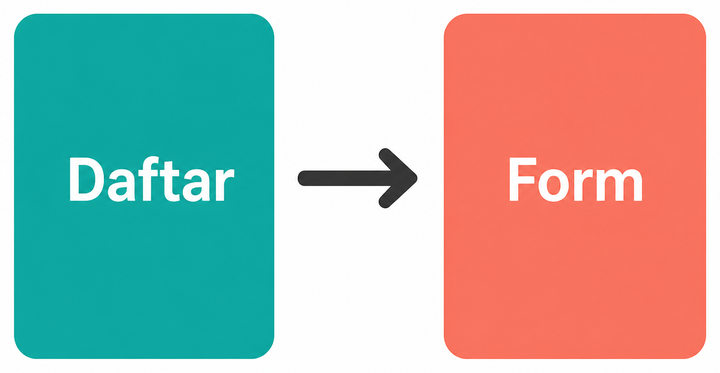
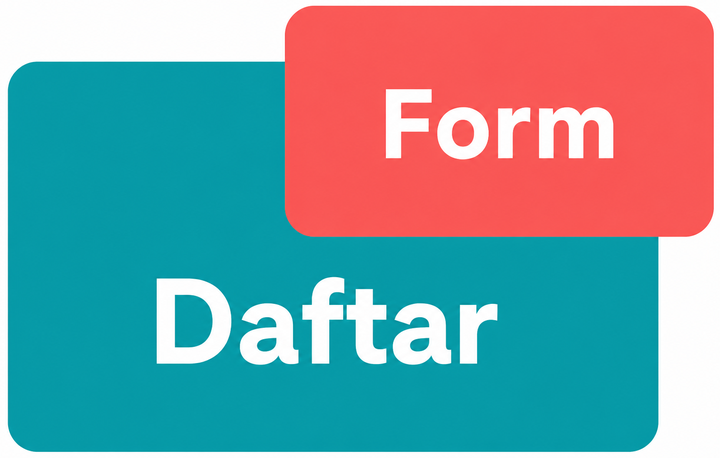
Fix the Modul 03 navigation analogy so GitHub no longer shows a tall broken-looking diagram.

diff --git a/modul-03-interaksi/README.md b/modul-03-interaksi/README.md
@@ -16,14 +16,15 @@ Ada **dua jalur uji**. Jangan sampai tertukar.
 | B | VS Code + Terminal (`Ctrl + J`) + emulator/HP | `go_router`, `PopScope` di rute paket, mini proyek |
 
 ```mermaid
-flowchart LR
-  A["Form / Navigator"] --> B["DartPad mode Flutter"]
-  C["go_router"] --> D["VS Code + flutter pub add"]
+flowchart TB
+  Pilih["Pilih jalur uji"]
+  Pilih --> A["Jalur A: DartPad mode Flutter"]
+  Pilih --> B["Jalur B: VS Code + go_router"]
 ```
 
 <img src="https://dart.dev/assets/img/dartpad-hello.png" alt="Tampilan DartPad: editor di kiri, keluaran di kanan" width="720">
 
-Sumber gambar: [dart.dev/tools/dartpad](https://dart.dev/tools/dartpad), Dart team / Google ([CC BY 4.0](https://creativecommons.org/licenses/by/4.0/)). Foto di atas **mode Dart**. Untuk modul ini pilih mode **Flutter**.
+Sumber gambar: [dart.dev/tools/dartpad](https://dart.dev/tools/dartpad), Dart team / Google ([CC BY 4.0](https://creativecommons.org/licenses/by/4.0/)). Foto resmi itu **tema gelap** dan **mode Dart**. Kalau kelihatan seperti kotak hitam, gulir sampai editor kiri dan tombol **Run** terlihat; itu bukan gambar rusak. Untuk modul ini pilih mode **Flutter** supaya panel kanan jadi **layar aplikasi**.
 
 Paket `go_router` **tidak** ada di daftar paket DartPad ([Package and plugin support](https://github.com/dart-lang/dart-pad/wiki/Package-and-plugin-support)). Jangan tempel `import 'package:go_router/go_router.dart'` di DartPad.
 
@@ -60,16 +61,13 @@ Paket `go_router` **tidak** ada di daftar paket DartPad ([Package and plugin sup
 
 Analogi: tumpukan kertas. Halaman baru diletakkan **di atas**. Tombol kembali mengangkat kertas paling atas.
 
-<img src="images/analogi-daftar-form.png" alt="Alur dari halaman Daftar ke halaman Form" width="720">
+<img src="images/analogi-daftar-form.png" alt="Form menumpuk di atas halaman Daftar" width="720">
 
-*Ilustrasi asli materi mobile2026. Alur mini proyek: daftar catatan → form tambah. Penjelasan ada di teks.*
-
-Ilustrasi di atas: **push** (Daftar ke Form). Tombol kembali = **pop** (Form diangkat, Daftar kelihatan lagi).
+*Ilustrasi asli materi mobile2026. Form menumpuk di atas Daftar (push). Tombol kembali mengangkat Form (pop). Penjelasan ada di teks.*
 
 ```mermaid
 flowchart TB
-  Form["Form — kertas atas"]
-  Daftar["Daftar — kertas bawah"]
+  Daftar["Daftar — kertas bawah"] --> Form["Form — kertas atas"]
 ```
 
 Di Flutter SDK, satu “kertas” disebut **route**. `Navigator` menjaga tumpukannya. `go_router` mengatur tumpukan itu lewat URL (`/`, `/tambah`).
@@ -86,6 +84,16 @@ Dokumentasi Flutter sendiri bilang: untuk app baru, jangan pakai `Navigator.push
 | --- | --- |
 | `InkWell` | ketuk dengan riak tinta; butuh widget `Material` di atasnya |
 | `GestureDetector` | ketuk, tahan lama, geser; tanpa riak |
+
+<img src="images/analogi-ketuk-tahan.png" alt="Dua kotak: Ketuk dan Tahan" width="720">
+
+*Ilustrasi asli materi mobile2026. Dua gestur: ketuk sebentar, tahan lama. Penjelasan ada di teks.*
+
+```mermaid
+flowchart TB
+  Sentuh["Sentuh layar"] --> Ketuk["Ketuk — onTap"]
+  Sentuh --> Tahan["Tahan lama — onLongPress"]
+```
 
 ### Uji 2 — ketuk dan tahan
 
@@ -951,11 +959,21 @@ Menyimpan “sudah pernah onboarding” ke HP ada di **Modul 05**. Di sini cukup
 
 Syarat silabus: daftar + form tambah + tanggal + geser-untuk-hapus, memakai `go_router`.
 
+Urutan kerja, jangan terbalik:
+
+1. Buka **VS Code** di folder proyek Flutter (bukan DartPad).
+2. Nyalakan emulator atau HP USB.
+3. Terminal (`Ctrl + J`): `flutter pub add go_router`.
+4. Ganti isi `lib/main.dart` dengan berkas lengkap di bawah.
+5. Ketik `flutter run`.
+6. Uji: tambah catatan, lihat daftar, geser untuk hapus, tombol kembali Android.
+
 | | |
 | --- | --- |
 | **Buka** | VS Code, proyek Flutter |
-| **Terminal** | `flutter pub add go_router` lalu `flutter run` |
-| **Tempel** | berkas lengkap ke `lib/main.dart` (ganti isi bawaan) |
+| **Terminal** | `Ctrl + J` |
+| **Ketik** | `flutter pub add go_router` lalu `flutter run` |
+| **Tempel** | berkas lengkap ke `lib/main.dart` |
 
 ```dart
 import 'package:flutter/material.dart';
@@ -1178,6 +1196,7 @@ Kunci jawaban di bawah. Coba jawab dulu.
 | Aset | Sumber |
 | --- | --- |
 | `images/analogi-daftar-form.png` | Ilustrasi asli materi mobile2026 |
+| `images/analogi-ketuk-tahan.png` | Ilustrasi asli materi mobile2026 |
 | Tampilan DartPad | [dart.dev/assets/img/dartpad-hello.png](https://dart.dev/assets/img/dartpad-hello.png) dari [dart.dev/tools/dartpad](https://dart.dev/tools/dartpad) ([CC BY 4.0](https://creativecommons.org/licenses/by/4.0/)) |
 | Navigasi | [docs.flutter.dev/ui/navigation](https://docs.flutter.dev/ui/navigation) |
 | Validasi form | [docs.flutter.dev/cookbook/forms/validation](https://docs.flutter.dev/cookbook/forms/validation) |

diff --git a/SILABUS.md b/SILABUS.md
@@ -64,6 +64,7 @@ Supaya tidak perlu menebak alat, tiap modul memakai pola yang sama:
 | 14 Agu 2026 | Audit GitHub Modul 05: mermaid online/offline tanpa id `Online`/`Offline`; caption DartPad tema gelap; analogi JSON + jeda; langkah mini proyek; sitasi JSON Flutter + emulator Android | Diagram LR sempat spinner di GitHub; foto DartPad gelap terasa seperti gambar rusak; file foto di silabus belum disebut |
 | 14 Agu 2026 | Audit GitHub Modul 02: PNG `layout-1.png` docs.flutter.dev diganti analogi Foto/Nama/Tombol + tautan tutorial; mermaid TB; caption DartPad tema gelap | Hotlink layout resmi tampil kotak merah di GitHub |
 | 14 Agu 2026 | Analogi Stack Modul 02: Foto dan Lencana menumpuk, bukan berjajar | Di GitHub, dua kotak berjajar terasa seperti Row, padahal teksnya Stack |
+| 14 Agu 2026 | Audit GitHub Modul 03: analogi Daftar/Form jadi tumpukan rapat; mermaid satu arah (bukan dua kotak tanpa panah); analogi Ketuk/Tahan; langkah mini proyek | PNG 720×373 pilar tinggi di GitHub gelap terasa rusak; diagram tanpa panah terasa error |
 
 ---
 

diff --git a/docs/SUMBER-GAMBAR.md b/docs/SUMBER-GAMBAR.md
@@ -23,7 +23,8 @@ Gambar yang berisi banyak teks kecil (sketsa DartPad / VS Code palsu) **dihapus*
 | `modul-02-ui/images/analogi-widget-lego.png` | Modul 02 | Tiga balok berlabel `Text`, `Icon`, `Container` |
 | `modul-02-ui/images/analogi-stack.png` | Modul 02 | Foto dan lencana (`Stack`) |
 | `modul-02-ui/images/analogi-layout-kartu.png` | Modul 02 | Foto, nama, tombol |
-| `modul-03-interaksi/images/analogi-daftar-form.png` | Modul 03 | Alur daftar → form |
+| `modul-03-interaksi/images/analogi-daftar-form.png` | Modul 03 | Form menumpuk di atas Daftar |
+| `modul-03-interaksi/images/analogi-ketuk-tahan.png` | Modul 03 | Ketuk / tahan |
 | `modul-04-state/images/analogi-ingatan.png` | Modul 04 | Katalog, ingatan bersama, keranjang |
 | `modul-04-state/images/analogi-folder.png` | Modul 04 | Folder `ui`, `data`, `services` |
 | `modul-05-data-lokal/images/analogi-tiga-lemari.png` | Modul 05 | Laci, brankas, buku |
